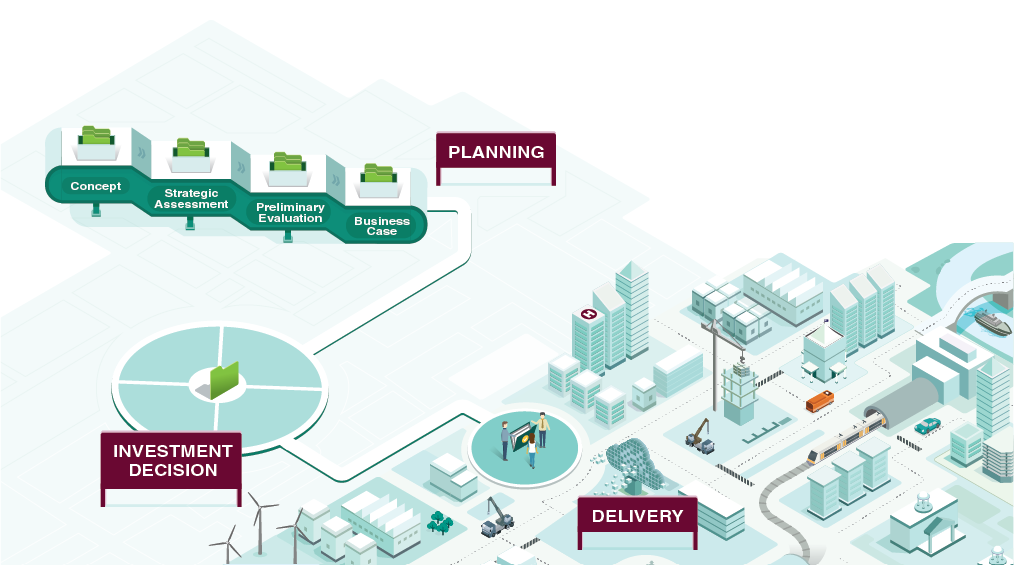
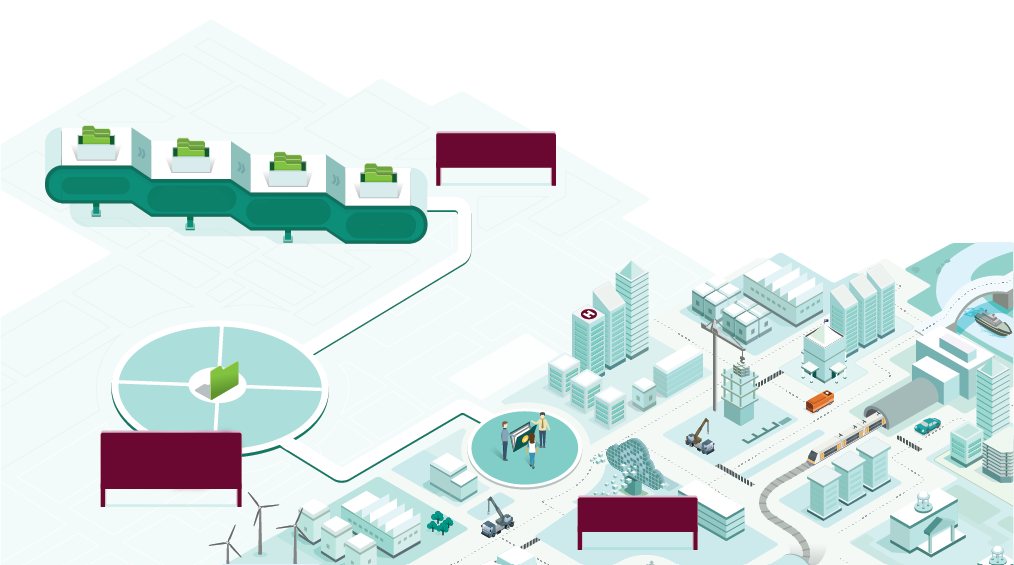
asas

diff --git a/js/scripts.js b/js/scripts.js
@@ -768,6 +768,7 @@ function jsonLoader() {
     $.each(jsonData, function(key, val) {
       // console.log("KEY:"+key+" VALUE:"+val["Next Milestone"]);
       var dataValue = val.ProjectId + ',' + val.Stage;
+      let valueType;
       if (val.Stage == "Strategic Assessment") {
         dataValue = val.ProjectId + ',StrategicAssessment';
       }
@@ -775,15 +776,14 @@ function jsonLoader() {
       items.push("<td class='overviewlst'></td>");
       items.push("<td class='linelst'>" + "<div class='circle'></div>" + "</td>");
       items.push("<td class='projectlst'>" + val.Project + "</td>");
-      // items.push("<td class='valuelst'>"+formatValue(val.Value)+"</td>");
+      if (val.OpportunityFlag) {
+        valueType = val.OpportunityFlag;
+      }else {
+        valueType = 'N/A';
+      }
       if (val.Stage.toUpperCase() == 'Planning'.toUpperCase()) {
-        // if(val.OpportunityFlag == true) {
-        items.push("<td class='valuelst'>" + val.OpportunityFlag + "</td>");
-        // }
-        // else
-        // {
-        //     items.push("<td class='valuelst'>"+"Consultation"+"</td>");
-        // }
+        // items.push("<td class='valuelst'>" + val.OpportunityFlag + "</td>");
+        items.push("<td class='valuelst'>" + valueType + "</td>");
         items.push("<td class='stagelst'>" + firstLetterCaps(val.Stage) + " - " + firstLetterCaps(val.SubStage) + "</td>");
         getCount(val.SubStage);
       } else {
@@ -1630,6 +1630,8 @@ $('#skip').click(function () {
     'display': 'block'
   });
   loadScene3();
+  $('#year-span').text('2018-19');
+  $('.year-span h6').text('2018-19');
   url1_temp = 'https://strategydotzero.blob.core.windows.net/dilgp2018test/ProjectMetaData';
   url2_temp = 'https://strategydotzero.blob.core.windows.net/dilgp2018test/ProjectDetailedData';
   url3_temp = 'https://strategydotzero.blob.core.windows.net/dilgp2018test/ProjectYearlyDetailedData';

diff --git a/css/style.css b/css/style.css
@@ -930,7 +930,7 @@ thead, tbody {
 }
 
 .valuelst {
-    padding-left: 0;
+    padding-left: 15px;
     width: 13%;
     min-width: 13%;
 }
@@ -2140,6 +2140,73 @@ hr.style-two {
 
 .clickables>ul>li span>strong {
     font-size: 18px;
+}
+
+.tag-names ul {
+    list-style: none;
+    z-index: 999;
+    position: relative;
+}
+
+.tag-names ul > li {
+    position: absolute;
+    text-align: center;
+    font-size: 13px;
+    font-weight: bold;
+    line-height: 0.8;
+    color: white;
+}
+
+.tag-names ul > li:nth-child(1) {
+    top: 180px;
+    left: 46px;
+    width: 100px;
+}
+
+.tag-names ul > li:nth-child(2) {
+    top: 189px;
+    left: 128px;
+    width: 130px;
+    transform: scale(0.98);
+}
+
+.tag-names ul > li:nth-child(3) {
+    top: 202px;
+    left: 225px;
+    width: 130px;
+    transform: scale(0.98);
+}
+
+.tag-names ul > li:nth-child(4) {
+    top: 216px;
+    left: 338px;
+    width: 87px;
+    transform: scale(0.98);
+}
+
+.tag-names ul > li:nth-child(5) {
+    top: 144px;
+    left: 441px;
+    width: 109px;
+    font-size: 17px;
+    text-transform: uppercase;
+}
+
+.tag-names ul > li:nth-child(6) {
+    bottom: -480px;
+    left: 105px;
+    width: 134px;
+    font-size: 17px;
+    text-transform: uppercase;
+    line-height: 1.1;
+}
+
+.tag-names ul > li:nth-child(7) {
+    bottom: -521px;
+    left: 584px;
+    width: 109px;
+    font-size: 17px;
+    text-transform: uppercase;
 }
 
 .landingSection {

diff --git a/index.html b/index.html
@@ -198,6 +198,17 @@
                                 <li><a bubble="DELIVERY"><img src="images/u210.png" alt=""><span><strong id="new-delivery">0</strong><br>Projects</span></a></li>
                               </ul>
                             </div>
+                            <div class="tag-names">
+                              <ul>
+                                <li>Concept</li>
+                                <li>Strategic Assessment</li>
+                                <li>preliminary evaluation</li>
+                                <li>Business Case</li>
+                                <li>Planning</li>
+                                <li>Investment Decision</li>
+                                <li>Delivery</li>
+                              </ul>
+                            </div>
                             <div class="year-anim" id="animation_container">
                               <canvas id="canvas" width="249" height="310"
                               style="position: absolute; display: block; background-color:rgba(153, 153, 153, 0.00);"></canvas>
